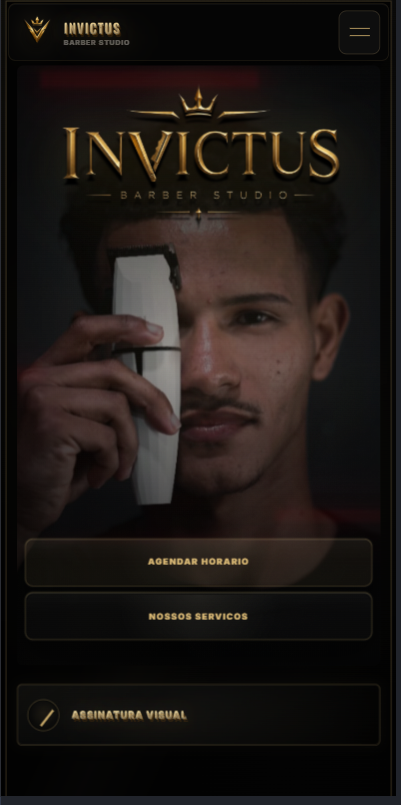
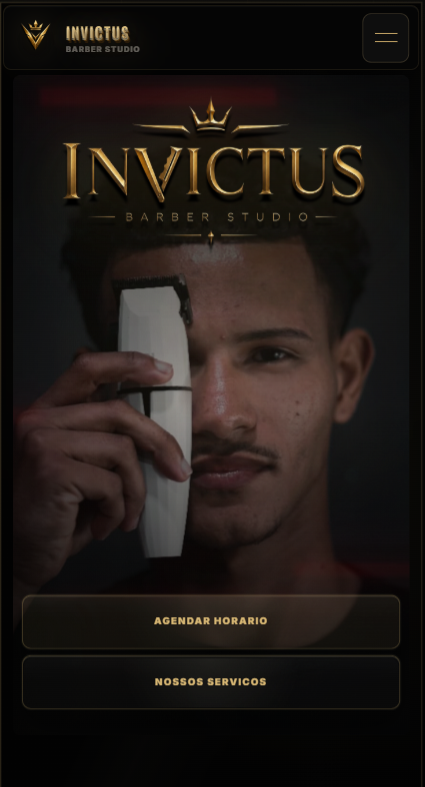
Refina vitrine responsiva dos projetos

diff --git a/src/styles/layout.css b/src/styles/layout.css
@@ -2038,9 +2038,10 @@
 }
 
 .project-card--invictus.project-showcase--responsive .project-preview--responsive-showcase {
-  height: 354px;
+  height: 334px;
   min-height: 0;
   max-height: none;
+  padding: 18px;
   background:
     radial-gradient(circle at 28% 20%, rgba(255, 27, 45, 0.24), transparent 11rem),
     radial-gradient(circle at 78% 100%, rgba(139, 0, 16, 0.34), transparent 14rem),
@@ -2050,46 +2051,65 @@
 .project-card--invictus.project-showcase--responsive
   .project-preview--responsive-showcase
   .project-screen--desktop {
-  top: 54px;
-  left: 18px;
-  width: min(82%, 480px);
-  height: 216px;
-  object-fit: cover;
-  object-position: 50% 38%;
-  opacity: 0.92;
+  top: 40px;
+  left: 50%;
+  width: calc(100% - 36px);
+  height: 238px;
+  max-height: none;
+  object-fit: contain;
+  object-position: center;
+  opacity: 0.96;
+  background: rgba(0, 0, 0, 0.28);
+  transform: translateX(-50%);
 }
 
 .project-card--invictus.project-showcase--responsive
   .project-preview--responsive-showcase
   .project-screen--mobile {
-  right: 34px;
-  bottom: 24px;
-  height: 258px;
-  max-width: 30%;
+  right: 18px;
+  bottom: 16px;
+  height: 196px;
+  max-width: 27%;
   border-radius: 16px;
+}
+
+.project-card--invictus.project-showcase--responsive:hover
+  .project-preview--responsive-showcase
+  .project-screen--desktop {
+  transform: translateX(-50%) scale(1.01);
 }
 
 @media (max-width: 768px) {
   .project-card--invictus.project-showcase--responsive .project-preview--responsive-showcase {
     height: 236px;
+    padding: 12px;
   }
 
   .project-card--invictus.project-showcase--responsive
     .project-preview--responsive-showcase
     .project-screen--desktop {
-    top: 38px;
-    left: 12px;
-    width: 84%;
-    height: 138px;
+    top: 24px;
+    left: 50%;
+    width: calc(100% - 28px);
+    height: 144px;
+    max-height: none;
+    object-fit: contain;
+    transform: translateX(-50%);
   }
 
   .project-card--invictus.project-showcase--responsive
     .project-preview--responsive-showcase
     .project-screen--mobile {
-    right: 18px;
-    bottom: 13px;
-    height: 184px;
-    max-width: 32%;
+    right: 10px;
+    bottom: 8px;
+    height: 112px;
+    max-width: 27%;
+  }
+
+  .project-card--invictus.project-showcase--responsive:hover
+    .project-preview--responsive-showcase
+    .project-screen--desktop {
+    transform: translateX(-50%) scale(1.01);
   }
 }
 
@@ -2101,17 +2121,19 @@
   .project-card--invictus.project-showcase--responsive
     .project-preview--responsive-showcase
     .project-screen--desktop {
-    top: 37px;
-    width: 83%;
-    height: 124px;
+    top: 22px;
+    width: calc(100% - 24px);
+    height: 126px;
+    max-height: none;
   }
 
   .project-card--invictus.project-showcase--responsive
     .project-preview--responsive-showcase
     .project-screen--mobile {
-    right: 15px;
-    height: 168px;
-    max-width: 33%;
+    right: 9px;
+    bottom: 8px;
+    height: 102px;
+    max-width: 28%;
   }
 }
 
